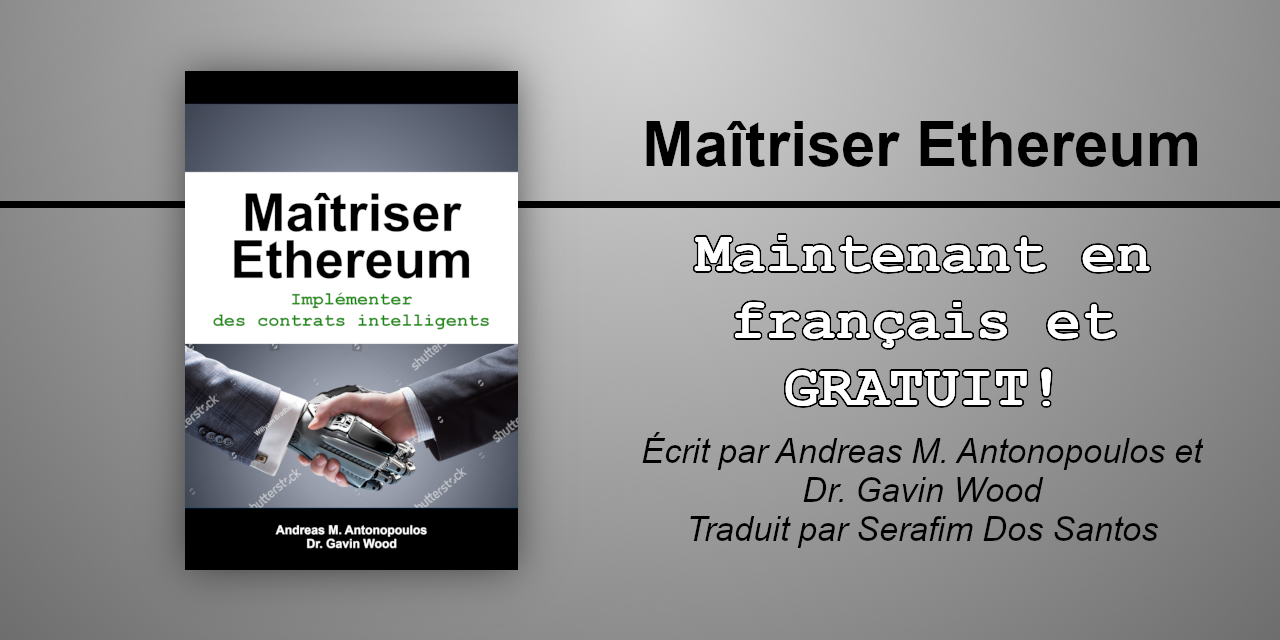
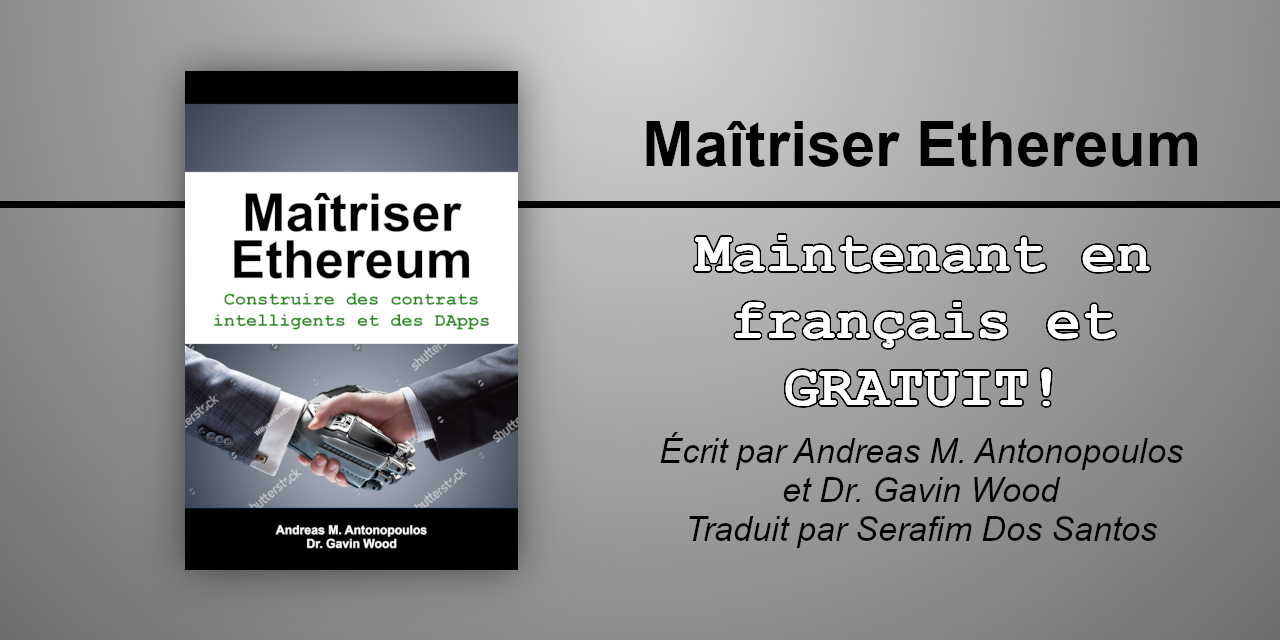
changement de sous-titre

Changed region(s): [[0.5, 0.6562, 0.9375, 0.7812], [0.1562, 0.4375, 0.375, 0.5312], [0.5312, 0.8125, 0.9062, 0.8438]]

diff --git a/README.md b/README.md
@@ -1,4 +1,4 @@
-# Maîtriser Ethereum : Implémenter des contrats intelligents, 1ère édition ouverte
+# Maîtriser Ethereum : Construire des contrats intelligents et des DApps, 1ère édition ouverte
 
 Le livre **Maîtriser Ethereum** (_**Mastering Ethereum**_ par O'Reilly Media) tel qu'écrit originalement en anglais par _Andreas M. Antonopoulos_ et _Dr. Gavin Wood_, traduit en français (Canada) par _Google Translate API_ et révisé par _Serafim Dos Santos_ avec les termes du [Grand dictionnaire terminologique (GDT)](https://gdt.oqlf.gouv.qc.ca/) de l'[Office qu&eacute;b&eacute;cois de la langue fran&ccedil;aise](https://www.oqlf.gouv.qc.ca/).
 
@@ -49,7 +49,7 @@ Thank you Dr. Gavin!</p><br>
 <center>
 <hr />
 <h1>Maîtriser Ethereum</h1>
-<h2>Implémenter des contrats intelligents</h2>
+<h2>Construire des contrats intelligents et des DApps</h2>
 <h3>1ère édition ouverte</h3>
 <p>Auteurs : <strong>Andreas M. Antonopoulos</strong> et <strong>Dr. Gavin Wood</strong> <br />
 Traducteur : <strong>Serafim Dos Santos</strong></p>
